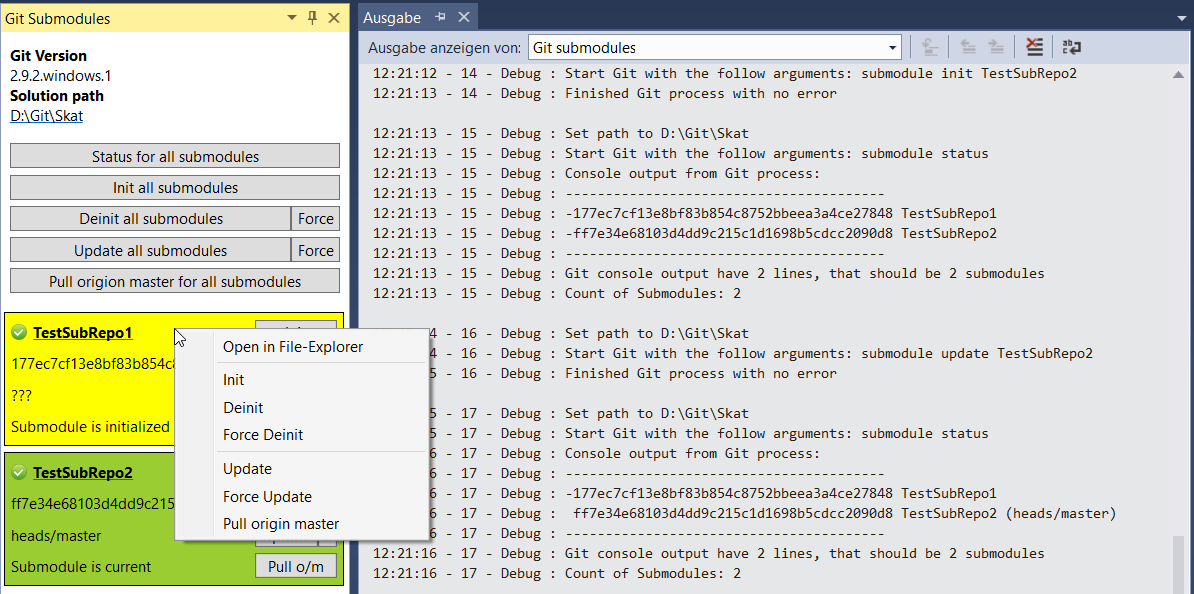
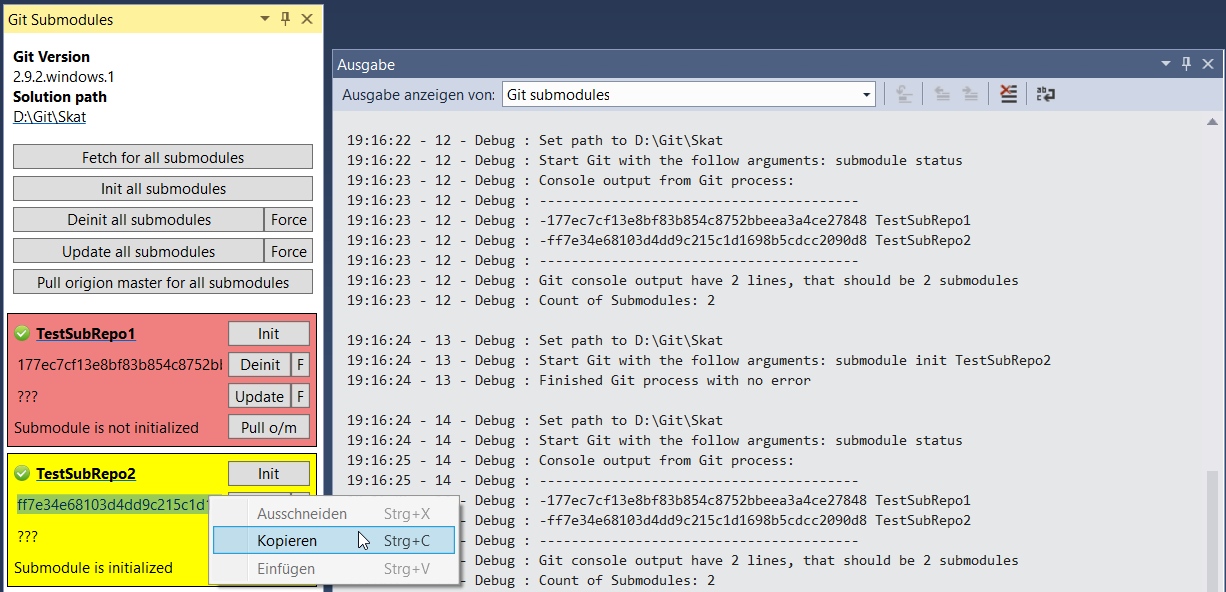
Updated pictures and description

diff --git a/Readme.md b/Readme.md
@@ -10,7 +10,7 @@ This Visual Studio plugin is for users that need a easier way to handle with Git
 4. Menu -> View -> Other Windows -> Git Submodules
 
 ##Supported Git functions for each and all submodules
-* Status
+* Fetch
 * Init
 * Deinit (Force)
 * Update (Force)
@@ -18,12 +18,16 @@ This Visual Studio plugin is for users that need a easier way to handle with Git
 
 ##Shown information
 * Git version
-* Path to the current open solution (clickable -> Open in File-Explorer)
+* Path to the current open solution
+ * Left-click for open in File-Explorer
 * Submodules of this repository
  * Status of the last action
- * Name of the Submodule (clickable -> Open in File-Explorer)
+ * Name of the Submodule
+  * Left-click for open in File-Explorer
  * Id (SHA-1) of the submodule
+  * Right-click menu for copy clipboartd
  * Last commit Id (SHA-1 or Tag) of the submodule
+  * Right-click menu for copy clipboartd
  * Status of the submodule
 
 ##Right-click options for a submodule
@@ -32,18 +36,21 @@ This Visual Studio plugin is for users that need a easier way to handle with Git
 * Deinit (Force)
 * Update (Force)
 * Pull origin master
+* Copy id to clipboard
+* Copy commit id to clipboard
  
 ##Others
 * Supported any used Visual Studio theme
+* Fetch submodule status from server on first open of a soultion
 * Debug and error messages will be written on a separate output window
 * The output window is automatical actiavte on the first use and when a error occures
 
 ##Pictures
+On dark theme
+![picture](picture1.png)
+
 On blue theme
 ![picture](picture2.png)
-
-On dark theme
-![picture](picture3.png)
 
 ##System requirements
 * Visual Studio 2012, 2013, 2015
@@ -73,4 +80,3 @@ On dark theme
 
 ##Whats next?
 * [See milestones inside bugtracker](https://github.com/Dark-Water/GitSubModulesVsPlugin/milestones)
-
